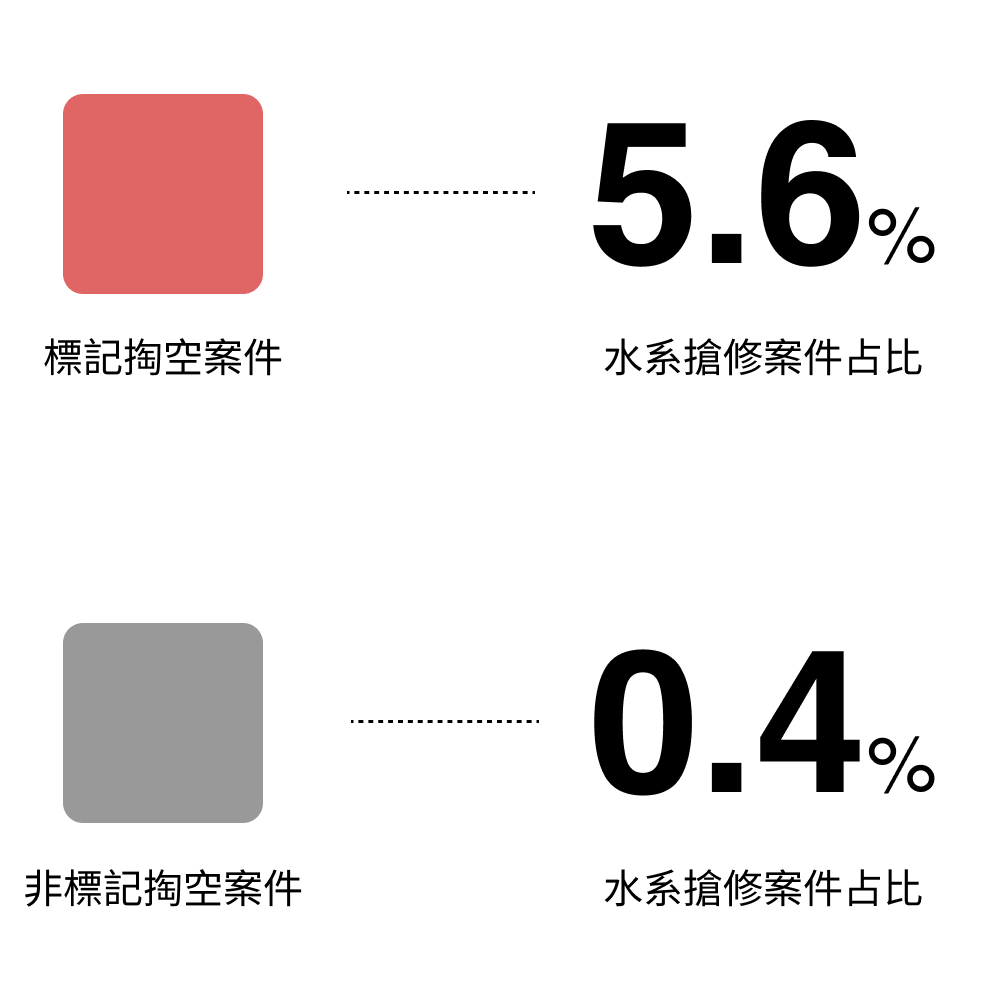
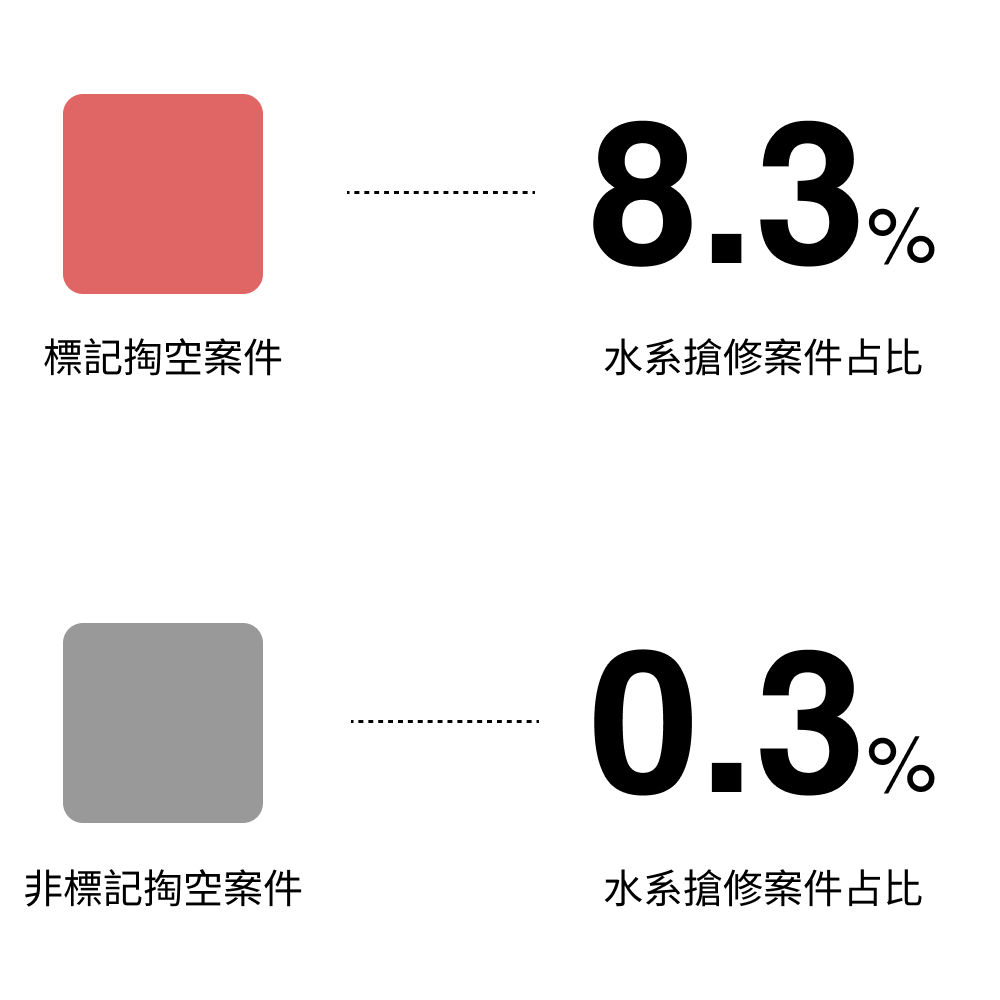
Modify_image

Changed region(s): [[0.744, 0.651, 0.868, 0.806], [0.744, 0.124, 0.868, 0.248], [0.589, 0.124, 0.713, 0.248]]

diff --git a/src/assets/lang/ch.js b/src/assets/lang/ch.js
@@ -179,10 +179,10 @@ export const ch = {
 		maintitle: "非多數掏空案件成因，但仍應納入預防考量",
 		subtitle: "掏空與水系搶修案件有關嗎？",
 		text1: "水系管線如自來水給水、污水或排水等管線系統，是城市基礎建設的重要部分。由於分布廣泛且密集，管線修復需求也十分頻繁，而相關管線維修前的狀況（如：漏水）是否會間接導致掏空？",
-		text2: "結果顯示，人工標記的掏空案件中，有5.6%受到水系搶修影響。雖然這並非主要原因，但相較於建案占比1%已屬相對較高。因此，實務上應將其納入預防考量。",
+		text2: "結果顯示，人工標記的掏空案件中，有 8.3%受到水系搶修影響。雖然這並非主要原因，但相較於建案占比 1%已屬相對較高，實務上應將其納入預防考量。",
 		text3: "有管線才需要維修，那麼管線分布越密集或越老舊，是否也越可能造成掏空？",
 		"captiontitle4-1": "水系搶修案件占比",
-		"captiontext4-1": "此圖待重新計算",
+		"captiontext4-1": "計算符合篩選之空間、時間條件之案件數量，除以該類型案件數得到之案件占比。",
 		"captiontitle4-2": "水系搶修影響分析方式",
 		"captiontext4-2": "水系搶修案件位於道路維修案件半徑10米內，且水系搶修發生於道路案件申報的前30日或後5日，可將相關案件定義為受水系搶修影響。",
 	},
